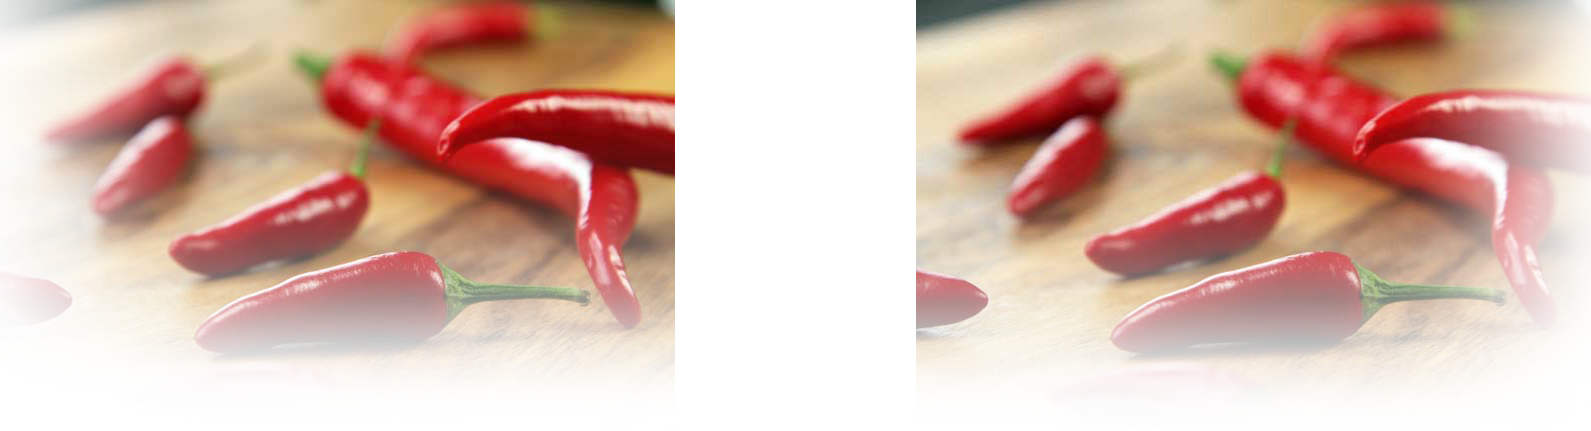
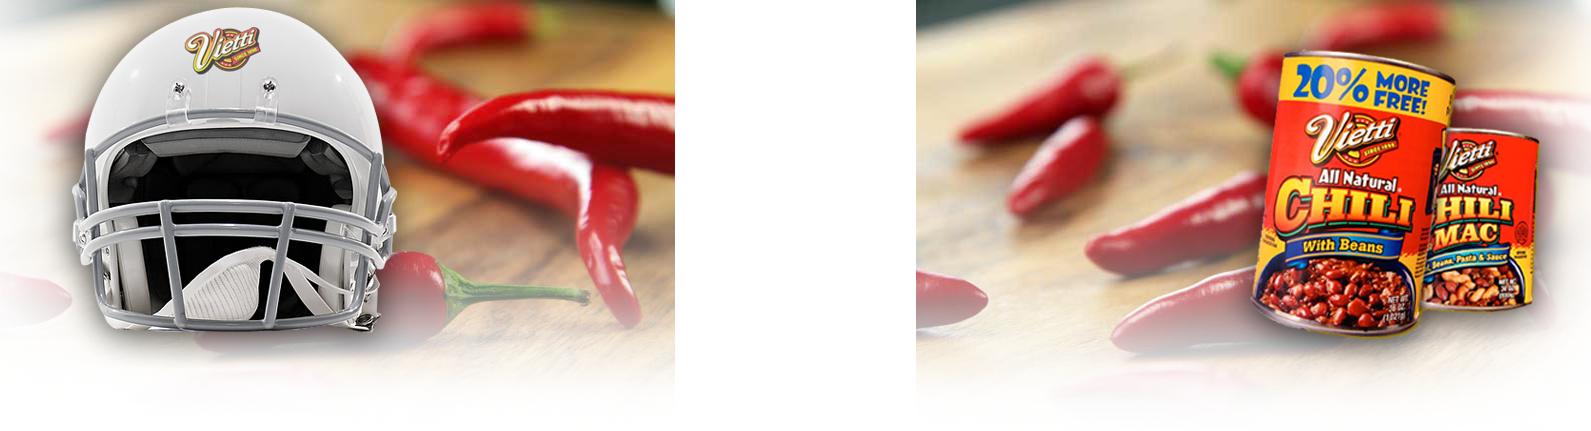
Finished header and started the rest of the layout.  Also added background image to body

Changed region(s): [[0.0308, 0.0, 0.2772, 0.8445], [0.77, 0.0905, 0.9855, 0.8445]]

diff --git a/app/assets/stylesheets/application.scss b/app/assets/stylesheets/application.scss
@@ -13,6 +13,15 @@
 
 @import "bootstrap";
 
+body {
+  padding: 0;
+  margin: 0;
+  background: url("/assets/chilipeppers_background.png") no-repeat center 220px;
+  width: 100%;
+  display: table;
+}
+
+
 #main_header {
   height: 225px;
   background-image:url("/assets/header_background_gradient.png");
@@ -24,6 +33,76 @@
     height: 230px;
     margin: 0 auto;
     background-image:url("/assets/header_sunrays.png");  
+    
+    .row {
+      
+      margin: 0;
+      padding: 0;
+    }
+    
+    #vietti_logo {
+      margin-top: 50px;
+      width: 238px;
+      height: 137px;
+      background-image:url("/assets/vietti_logo.png");
+    }
+    
+    #cowgirl {           
+      width: 388px;
+      height: 225px;
+      margin: 0 auto;
+      margin-left: 50px;
+      background-image:url("/assets/cowgirl.png");
+    }
+    
+    #football_experts {
+      margin-top: 80px;
+      width: 276px;
+      height: 73px;
+      background-image:url("/assets/football_experts_club_logo.png");
+    }
+    
   }
   
+  #navigation_container {    
+       
+    ul {      
+      list-style-type: none;
+      
+      li {
+        margin-right: 10px;
+        float: left;
+      }  
+    }
+    
+  } // end navigation container
+} // end main_header
+
+
+
+
+#main.container {
+  background: #fff;
+  padding: 20px;
+  
+  #sign_up {
+    margin-top: 60px;
+  }
+  
+  #game_navigation_container {
+    ul {
+      list-style-type: none;
+      
+      li {
+        margin-right: 20px;
+        float: left;
+      }
+    } // end unordered list
+  } // end game navigation container
+  
 }
+
+
+
+
+
